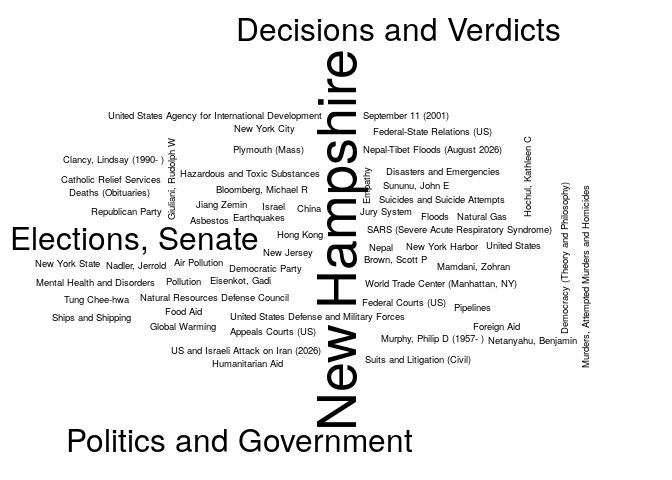
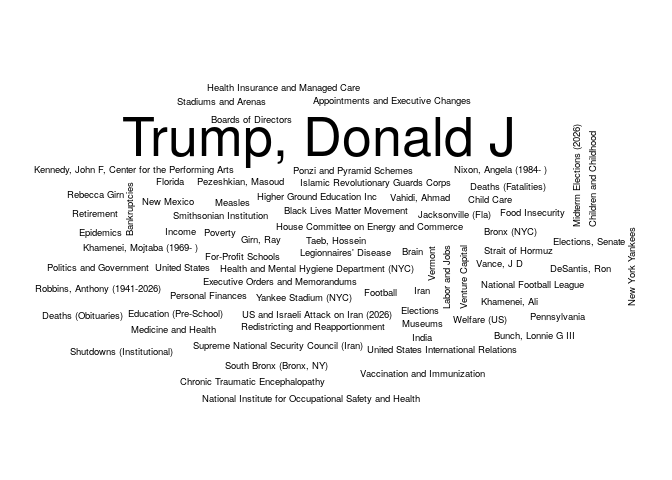
Updating the NYT report

Changed region(s): [[0.0, 0.0312, 0.9688, 0.9375]]

diff --git a/03-nytimes/README.md b/03-nytimes/README.md
@@ -5,7 +5,7 @@ The following is an example of how to use the [NYTimes
 API](https://developer.nytimes.com/) to get a list of articles related
 to a particular term. Here we are searching articles that include the
 term `"health"`, and that were published up to seven days ago since
-2026-09-09.
+2026-09-14.
 
 ``` r
 # Preparing a function to use the GET method with the NYTimes API
@@ -85,23 +85,23 @@ knitr::kable(tab, row.names = FALSE)
 
 | Keyword                               | \# Articles |
 |:--------------------------------------|------------:|
-| Midterm Elections (2026)              |          20 |
-| New Hampshire                         |          15 |
+| United States Politics and Government |          20 |
 | Trump, Donald J                       |          15 |
-| United States Politics and Government |          15 |
-| Decisions and Verdicts                |          10 |
-| Elections, Senate                     |          10 |
-| Politics and Government               |          10 |
-| Air Pollution                         |           5 |
-| Appeals Courts (US)                   |           5 |
-| Asbestos                              |           5 |
-| Bloomberg, Michael R                  |           5 |
-| Brown, Scott P                        |           5 |
-| Catholic Relief Services              |           5 |
-| China                                 |           5 |
-| Clancy, Lindsay (1990- )              |           5 |
+| Appointments and Executive Changes    |           5 |
+| Bankruptcies                          |           5 |
+| Black Lives Matter Movement           |           5 |
+| Boards of Directors                   |           5 |
+| Brain                                 |           5 |
+| Bronx (NYC)                           |           5 |
+| Bunch, Lonnie G III                   |           5 |
+| Child Care                            |           5 |
+| Children and Childhood                |           5 |
+| Chronic Traumatic Encephalopathy      |           5 |
+| Deaths (Fatalities)                   |           5 |
 | Deaths (Obituaries)                   |           5 |
-| Democracy (Theory and Philosophy)     |           5 |
-| Democratic Party                      |           5 |
-| Disasters and Emergencies             |           5 |
-| Earthquakes                           |           5 |
+| DeSantis, Ron                         |           5 |
+| Education (Pre-School)                |           5 |
+| Elections                             |           5 |
+| Elections, Senate                     |           5 |
+| Epidemics                             |           5 |
+| Executive Orders and Memorandums      |           5 |
